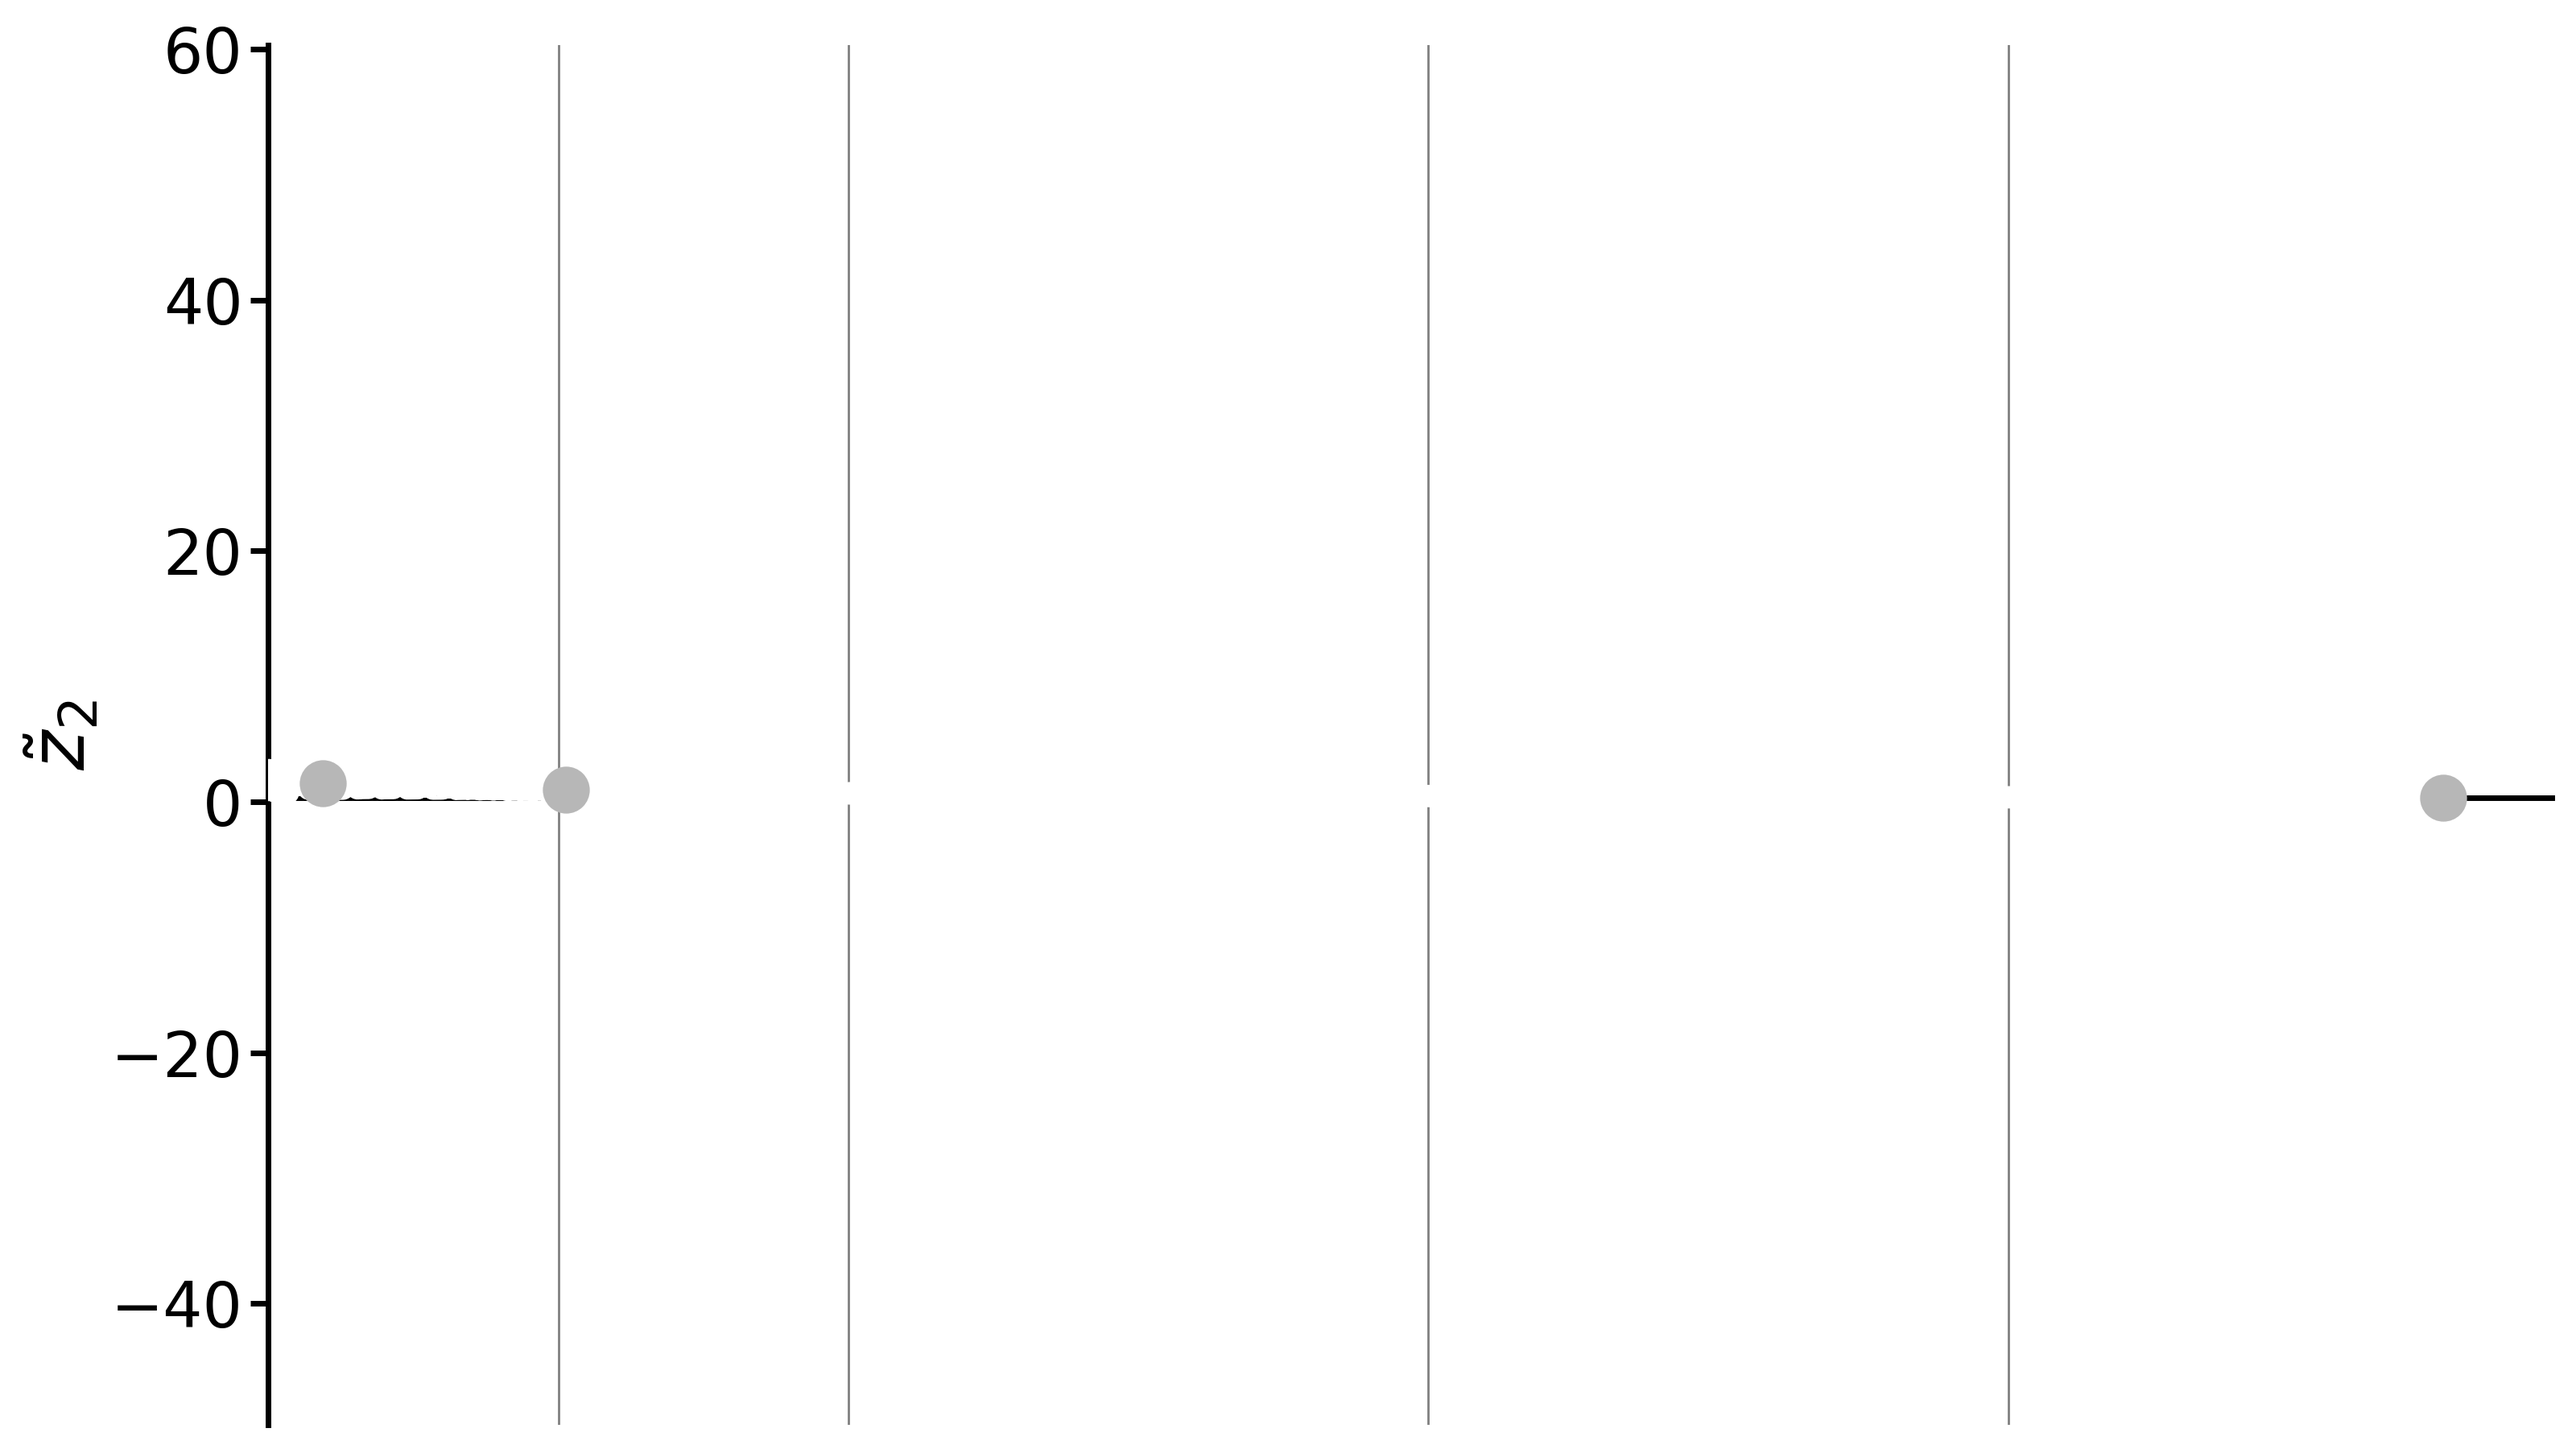
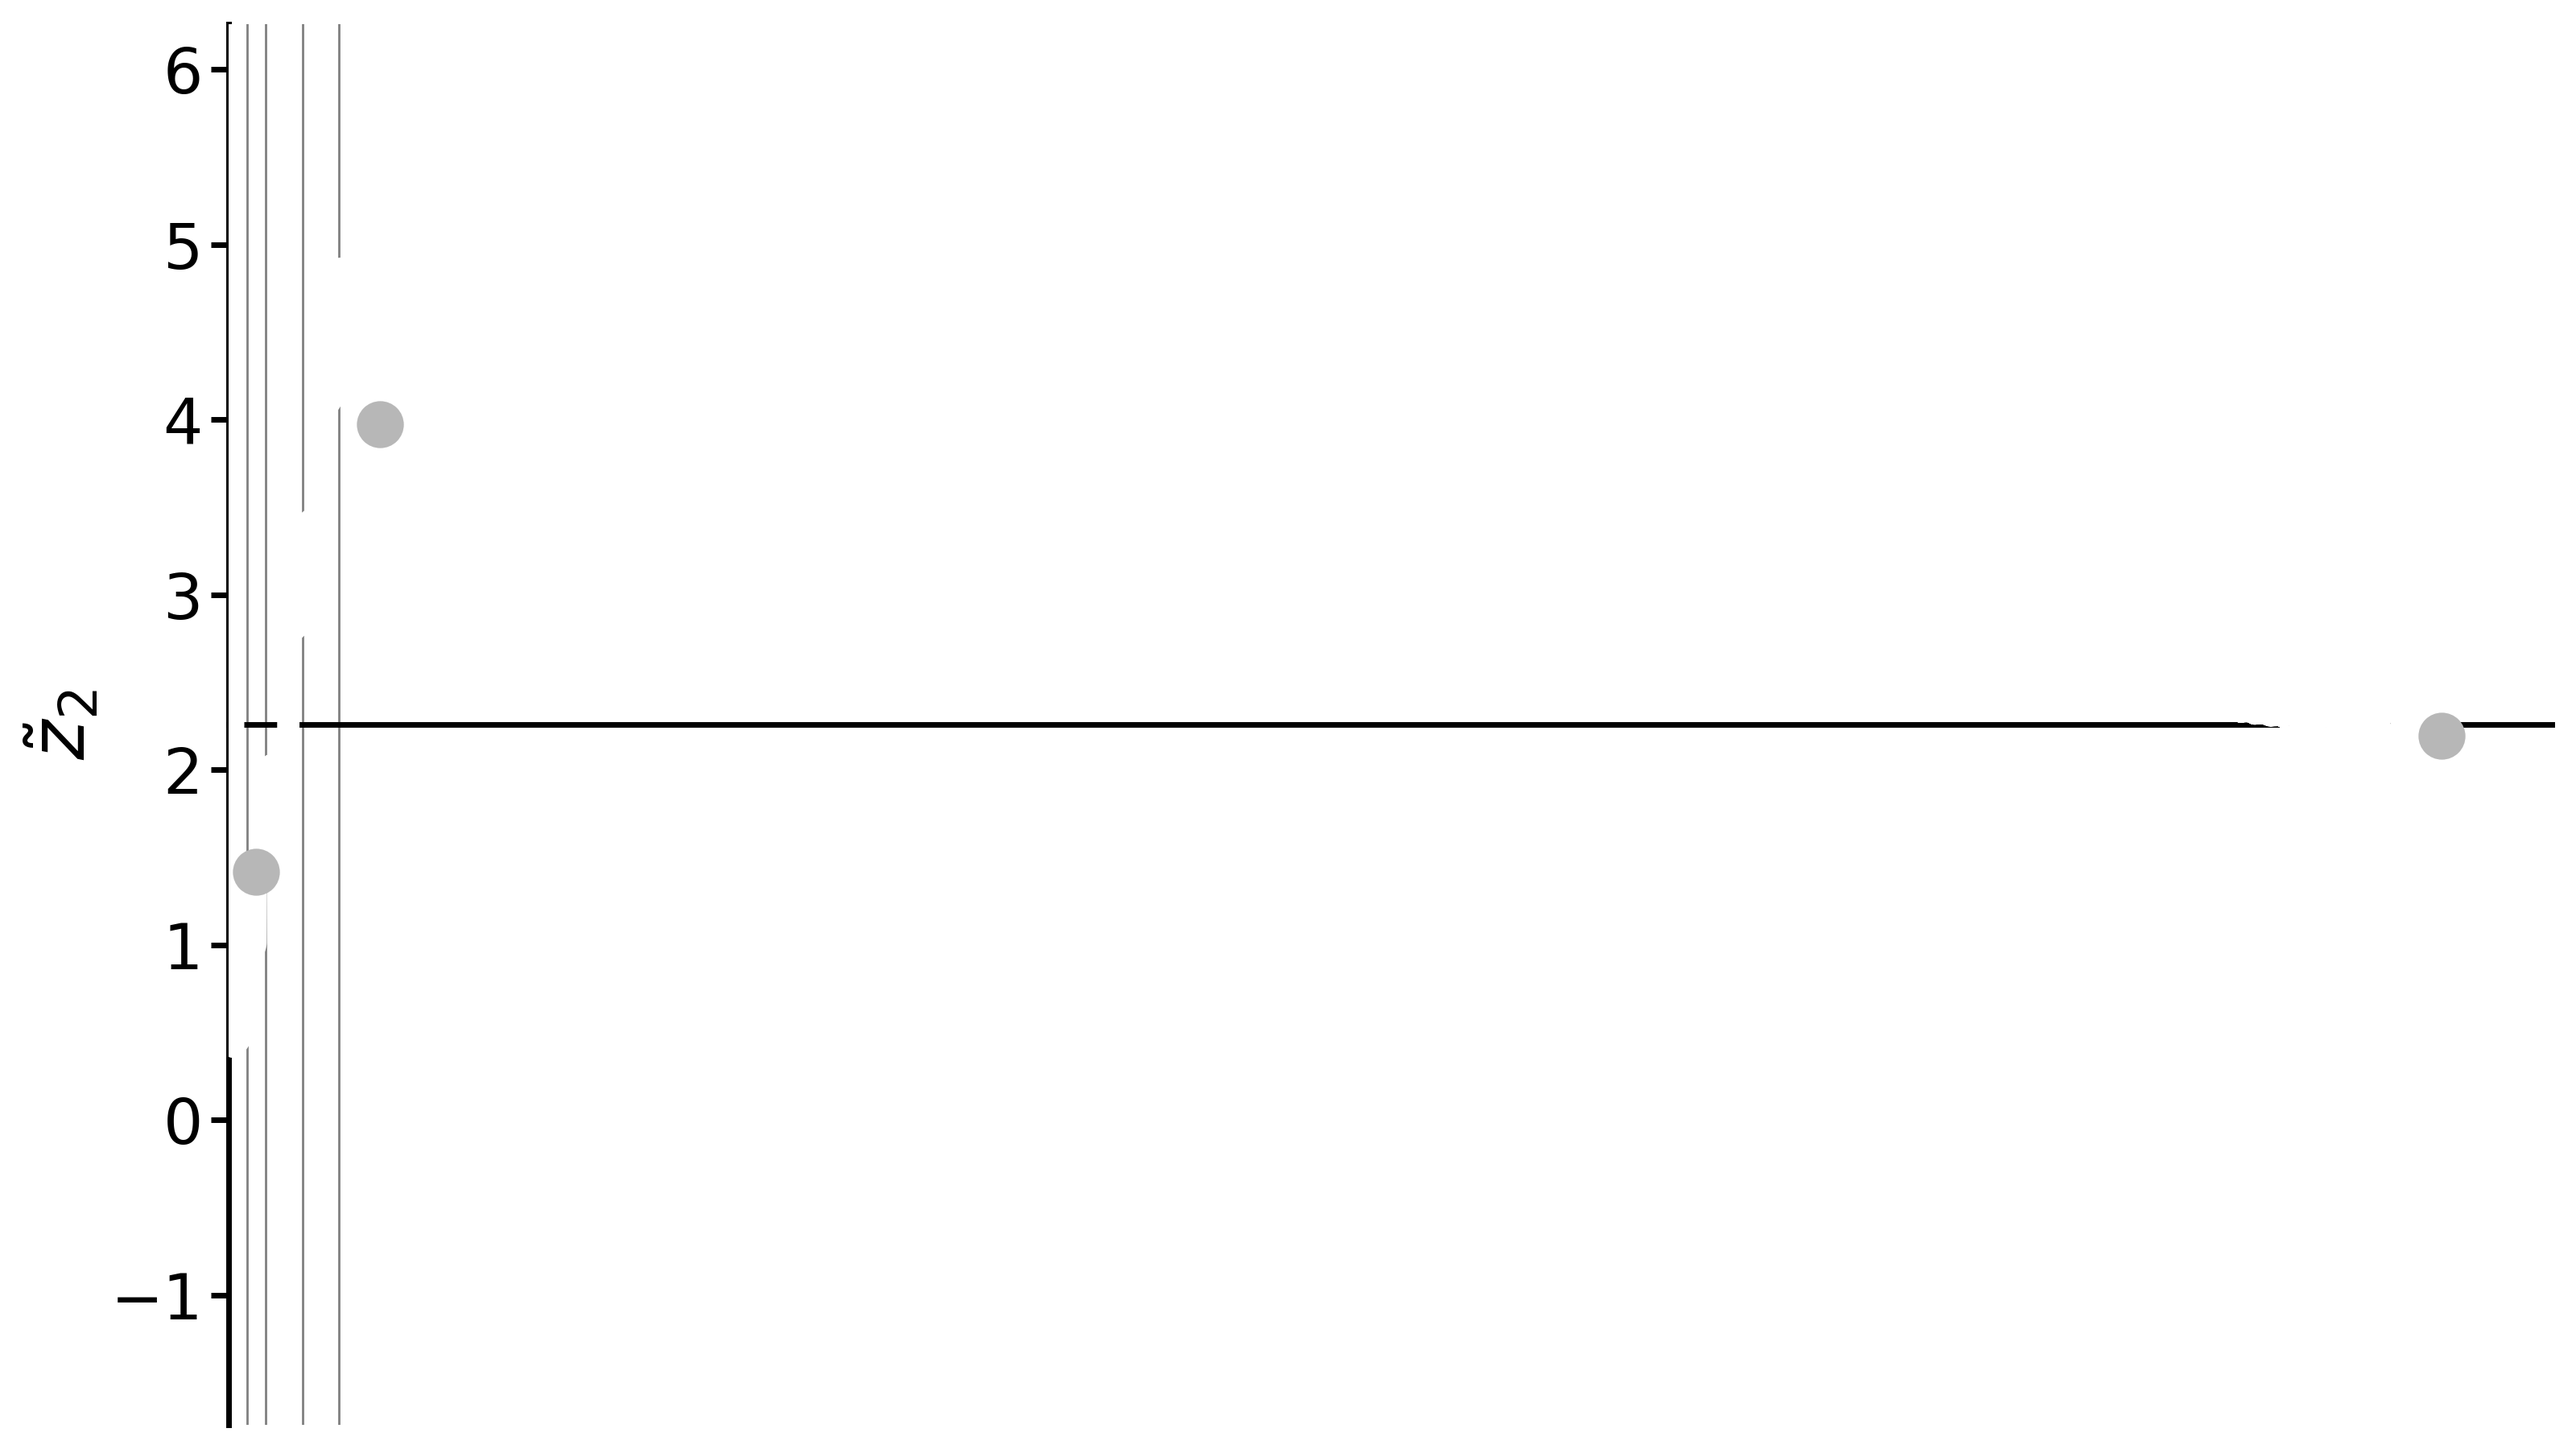
sync w_mu in progress

diff --git a/FigureCode/Fig4_wmu/make_z_movie.py b/FigureCode/Fig4_wmu/make_z_movie.py
@@ -1,0 +1,105 @@
+import numpy as np, matplotlib.pyplot as plt
+from matplotlib.animation import FuncAnimation
+
+z = np.load("run_save_growth.npz")['Ss_saves'][::10]
+z = z / z[:, -1][:, None]
+
+
+
+import jax
+jax.config.update("jax_enable_x64", True)
+
+import sys
+sys.path.append('../../common') # include the common folder
+
+import tqdm
+
+from sandscapes_main import *
+
+import tqdm
+
+import matplotlib
+import matplotlib.pyplot as plt
+
+import seaborn as sns
+sns.set_theme(palette="pastel")
+
+import numpy as np
+import matplotlib.colors
+
+
+colors = [    (0.8352941176, 0.3686274510, 0.0000000000, 1.0),  # 4: #D55E00 Vermilion
+              (0.9019607843, 0.6235294118, 0.0000000000, 1.0),  # 1: #E69F00 Orange
+              (0.3372549020, 0.7058823529, 0.9137254902, 1.0),  # 2: #56B4E9 Sky-blue
+              (0.0000000000, 0.6196078431, 0.4509803922, 1.0),  # 3: #009E73 Bluish-green
+          ]
+
+
+
+common_cmap = matplotlib.colors.ListedColormap(colors)
+common_norm = matplotlib.colors.Normalize(0, 4)
+
+
+data = np.load("data_catastrophe_2/catastrophe_data_growth.npz") #long_iso
+N_fps_space = data["N_fps_space"]
+z_mus = data["z_mus"]
+size_gamma = data["size_gamma"]
+beta = data["beta"]
+XIs = data["XIs"]
+w_mu = data["w_mu"]
+
+
+# preprocess the FPs so that only odd numbers are kept
+N_fps_space_pp = np.ceil((N_fps_space - 1)/2.0)
+
+slinesize = 100
+
+
+fig, ax = plt.subplots(1, 1, figsize=(15, 6), dpi=400)
+
+im=ax.pcolormesh(z_mus[:, 0].reshape(size_gamma, size_gamma),
+              z_mus[:, 1].reshape(size_gamma, size_gamma),
+                 N_fps_space_pp, cmap=common_cmap, norm=common_norm)
+
+
+ax.set_axisbelow(False)
+ax.grid(True, which="both", linewidth=0.8, alpha=0.25)
+
+# Increase fontsize for both x and y axes
+ax.tick_params(axis='both', labelsize=16)
+
+
+# CBAR
+
+from mpl_toolkits.axes_grid1 import make_axes_locatable
+
+divider = make_axes_locatable(ax)
+cax = divider.append_axes("right", size="3%", pad=0.05)
+cb = fig.colorbar(im, cax=cax)
+
+cb.set_ticks(np.arange(4)+0.5)
+cb.set_ticklabels([1, 3, 5, 7], fontsize=16)
+cb.set_label("Number of FPs", labelpad=20, fontsize=24)
+
+ax.set_xlabel(r"$\tilde{z}_1$", fontsize=24)
+ax.set_ylabel(r"$\tilde{z}_2$", fontsize=24)
+
+ax.set_xlim(np.min(z_mus[:, 0]), np.max(z_mus[:, 0]))
+ax.set_ylim(np.min(z_mus[:, 1]), np.max(z_mus[:, 1]))
+ax.set_aspect("auto")
+plt.tight_layout()
+
+
+ln, = ax.plot([], [], ".", color="crimson")
+ax.set_xlim(z[:, 0].min(), z[:, 0].max())
+ax.set_ylim(z[:, 1].min(), z[:, 1].max())
+
+def upd(t):
+    if t%100==0: print(t)
+
+    ln.set_data(z[:t, 0], z[:t, 1]); 
+    if t>100:
+        ln.set_data(z[t-100:t, 0], z[t-100:t, 1]); 
+    return ln,
+
+FuncAnimation(fig, upd, frames=range(0, len(z), 10), blit=False).save("z_movie.mp4", fps=30)

diff --git a/FigureCode/Fig4_wmu/B_catastrophe_trajectory_growth_plot.py b/FigureCode/Fig4_wmu/B_catastrophe_trajectory_growth_plot.py
@@ -12,8 +12,10 @@ import seaborn as sns
 tmin = 0
 #data_h = np.load("/localhome/nacer/SignalDiff_data/SLURM/run_save_growth_h_q4.0_seed4.npz")
 data_h = np.load("run_save_growth.npz")
-Ss_saves_h = data_h['Ss_saves'][tmin:70000]#100000
+Ss_saves_h = data_h['Ss_saves']#100000
 tmax = len(Ss_saves_h)
+
+
 
 gamma_points_h = np.asarray([1500, 8200, tmax-1])
 print(gamma_points_h)
@@ -28,7 +30,7 @@ ax.plot(ts, z_h[:, 1], color="white", lw=10, zorder=9)
 ax.scatter(ts[gamma_points_h], z_h[gamma_points_h, 1], c=[(183/255.0, 183/255.0, 183/255.0)], s=400, zorder=10)
 
 #gamma_vlines = np.unique(np.r_[np.arange(0, tmax-1, 10000, dtype=int)[[0, 1, 2, 4, 6]], tmax-1])
-gamma_vlines = np.unique(np.r_[np.arange(0, tmax-1, 8000, dtype=int)[[0, 1, 2, 4, 6]], tmax-1])
+gamma_vlines = np.unique(np.r_[np.arange(0, tmax-1, 1000, dtype=int)[[0, 1, 2, 4, 6]], tmax-1])
 print(gamma_vlines)
 for vline in gamma_vlines[:-1]:
     ax.axvline(vline, color="grey", lw=1)
@@ -38,8 +40,8 @@ ax.set_ylabel(r"$\tilde{z}_2$", fontsize=34)
 y_0 = np.mean(z_h[-10000:, 1])
 
 #dy = 
-ymin = y_0 - 50
-ymax = y_0 + 60
+ymin = y_0 - 4
+ymax = y_0 + 4
 
 
 ax.locator_params(axis='x', nbins=20)

diff --git a/FigureCode/Fig4_wmu/A_calc_catastrophe.py b/FigureCode/Fig4_wmu/A_calc_catastrophe.py
@@ -92,7 +92,7 @@ def calculate_catastrophe_byblock(Ms_probes, z_mus, gamma, XIs, beta, w_mu, bloc
     return N_fps_all
 
 
-w_mu = jnp.asarray([600.0, 60.0, 1.0])
+w_mu = jnp.asarray([20.0, 20.0, 1.0]) # 6 seems good
 
 size = 1000#//2
 xs = jnp.linspace(-1.5, 1.5, size)
@@ -104,8 +104,13 @@ print(Ms_probes.nbytes)
 
 ## CALCULATE BROAD Z-SPACE
 size_gamma = 200 #500
-z_mus_lin_x = jnp.linspace(0.001, 4.0, size_gamma)
-z_mus_lin_y = jnp.linspace(0.001, 15.0, size_gamma)
+
+#z_mus_lin_x = jnp.linspace(0.001, 4.0, size_gamma)
+#z_mus_lin_y = jnp.linspace(0.001, 15.0, size_gamma)
+
+z_mus_lin_x = jnp.linspace(0.001, 120.0, size_gamma)
+z_mus_lin_y = jnp.linspace(0.001, 45.0, size_gamma)
+
 z_mus_x, z_mus_y = jnp.meshgrid(z_mus_lin_x, z_mus_lin_y)
 
 z_mus = jnp.ones((size_gamma**2, 3))

diff --git a/FigureCode/Fig4_wmu/make_cells_movie.py b/FigureCode/Fig4_wmu/make_cells_movie.py
@@ -1,0 +1,17 @@
+import numpy as np, matplotlib.pyplot as plt
+from matplotlib.animation import FuncAnimation
+
+X = np.load("Xs_saves.mmap", mmap_mode="r")[-2000:]  # (t, K, 2)
+sample = np.asarray(X[::100])
+
+fig, ax = plt.subplots(figsize=(10, 8))
+sc = ax.scatter(np.zeros(X.shape[1]), np.zeros(X.shape[1]), c=np.arange(X.shape[1]), cmap="viridis", s=1)
+sc.set_offsets(np.full((X.shape[1], 2), np.nan))
+ax.set_xlim(sample[..., 0].min() - .1, sample[..., 0].max() + .1)
+ax.set_ylim(sample[..., 1].min() - .1, sample[..., 1].max() + .1)
+
+def upd(t): 
+    if t%100==0: print(t)
+    sc.set_offsets(np.asarray(X[t])); 
+    return sc,
+FuncAnimation(fig, upd, frames=range(0, len(X), 10), blit=False).save("cells_movie.mp4", fps=30)

diff --git a/FigureCode/Fig4_wmu/B_simulate_triangle_growth.py b/FigureCode/Fig4_wmu/B_simulate_triangle_growth.py
@@ -34,14 +34,17 @@ xi_y = 1.3
 XIs = jnp.asarray([ [-xi_x, -xi_y], [xi_x, -xi_y], [0, xi_y] ])
 q = args.q
 
-w_mu = jnp.asarray([600.0, 60.0, 1.0])
+#w_mu = jnp.asarray([600.0, 60.0, 1.0])
+#w_mu = jnp.asarray([200.0, 20.0, 1.0]) 
+
+w_mu = jnp.asarray([20.0, 20.0, 1.0]) # 6 seems good
+
 
 gamma = jnp.asarray([800.0, 150.0, 1.0])*q + 1E-5
-
 gamma = gamma / w_mu
 
 beta = 1.5 
-K = 1000*10*4  # 4
+K = 2000*10*4  # 4
 
 tmax= K*30  # here it's inverse rate
 a = (tmax)/K
@@ -52,7 +55,7 @@ keys = jax.random.split(key, (tmax,))
 X_STEM = jnp.asarray([ XIs[0] ])
 X_0 = X_STEM.repeat(K, axis=0)
 
-N_TIME_CHUNKS = 100
+N_TIME_CHUNKS = 400
 time_chunk_size = tmax // N_TIME_CHUNKS
 
 k = jnp.arange(K)[None, :]

diff --git a/FigureCode/Fig4_wmu/A_catastrophe_plot_growth.py b/FigureCode/Fig4_wmu/A_catastrophe_plot_growth.py
@@ -97,7 +97,7 @@ n_y = 16
 n_x = 20
 
 starts_x0    = np.c_[np.full(n_y, X.min()),    np.linspace(Y.min(), Y.max()*0.95, n_y)]
-starts_x2000 = np.c_[np.full(n_y, X.max()), np.linspace(3, Y.max()*0.95, n_y)]
+starts_x2000 = np.c_[np.full(n_y, X.max()), np.linspace(4, Y.max()*0.95, n_y)] # 4 is roughly the flip
 starts_y0    = np.c_[np.linspace(X.min(), X.max(), n_x), np.full(n_x, Y.min())]
 
 start_points = np.vstack([starts_x2000, starts_y0])

diff --git a/FigureCode/Fig4_wmu/B_dynamical_plots.py b/FigureCode/Fig4_wmu/B_dynamical_plots.py
@@ -43,8 +43,8 @@ XIs = jnp.asarray([ [-xi_x, -xi_y], [xi_x, -xi_y], [0, xi_y] ])
 beta = 1.5
 
 
-def get_grad(Ms_probe, gamma, XIs, beta):
-    grad = calculate_gradient(Ms_probe, XIs, beta, gamma, jnp.asarray([1E-5]))
+def get_grad(Ms_probe, gamma, XIs, beta, w_mu):
+    grad = calculate_gradient(Ms_probe, XIs, beta, gamma, jnp.asarray([1E-5]), w_mu)
     return grad
 
 def get_grads_field(Ms_probes, gamma, XIs, beta):

diff --git a/FigureCode/Fig4_wmu/C_dynamical_trajectories.py b/FigureCode/Fig4_wmu/C_dynamical_trajectories.py
@@ -21,7 +21,7 @@ Xs_saves_all = np.load("Xs_saves.mmap", mmap_mode="r")[:80000, :] #70000
 
 #Xs_saves_all = Xs_saves
 tmax = len(Xs_saves_all)
-gamma_vlines = np.unique(np.r_[np.arange(0, tmax-1, 8000, dtype=int)[[0, 1, 2, 4, 6]], tmax-1])
+gamma_vlines = np.unique(np.r_[np.arange(0, tmax-1, 10000, dtype=int)[[0, 1, 2, 4, 6]], tmax-1])
 
 data = np.load("run_save_growth.npz")
 K = data["K"]
